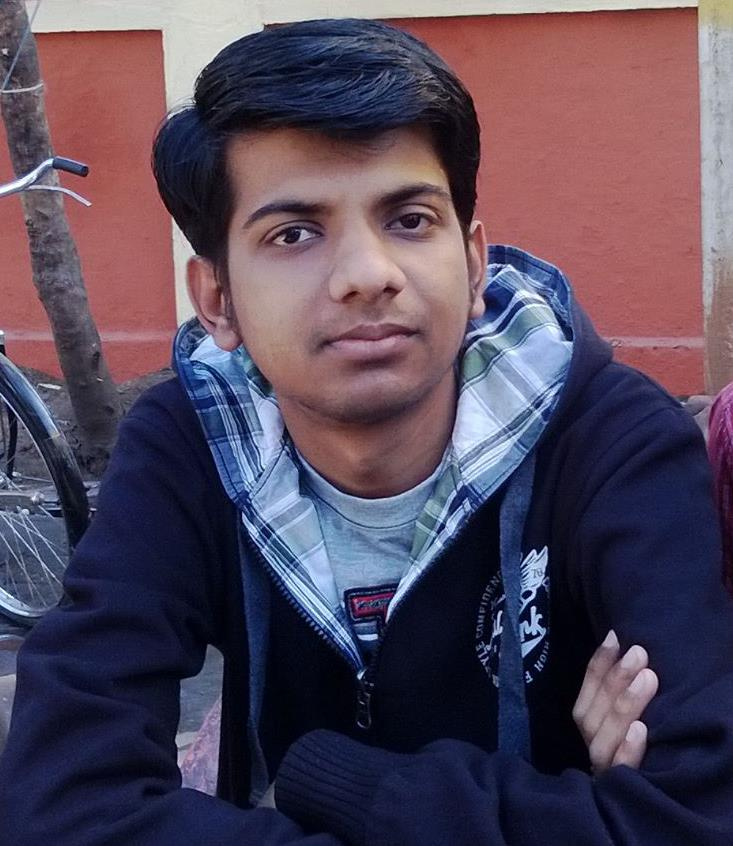
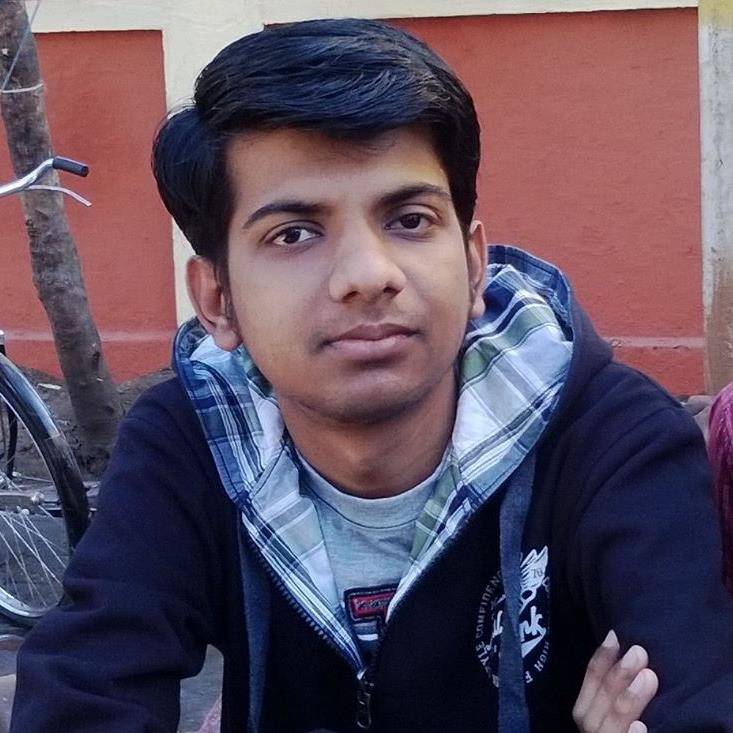
alumni.html: Add Rahul Agarwal
Added Rahul Agarwal in the Featured Alumni page

Closes https://github.com/iiitdmj-alumni-association/alumni-static/issues/1

diff --git a/alumni.html b/alumni.html
@@ -325,6 +325,16 @@
                 </ul>
             </article>
             
+            <article class="one_quarter"><img class="alum" src="images/alumni/Rahul%20Agarwal.jpg" alt="">
+                <h4 class="heading font-x1"><a href="#">Rahul Agarwal</a></h4>
+                <ul class="meta cat-1">
+                    <li> Project Assistant at IISc Bengaluru </li>
+                    <li>
+                        <i class="fa fa-calendar-check-o"></i> Batch of 2017
+                    </li>
+                </ul>
+            </article>
+            
             <article class="one_quarter"><img class="alum" src="images/alumni/Ritesh%20Kumar.jpg" alt="">
                 <h4 class="heading font-x1"><a href="https://sites.google.com/view/ritesh-mechatronics/home/introduction">Ritesh Kumar</a></h4>
                 <ul class="meta cat-1">
